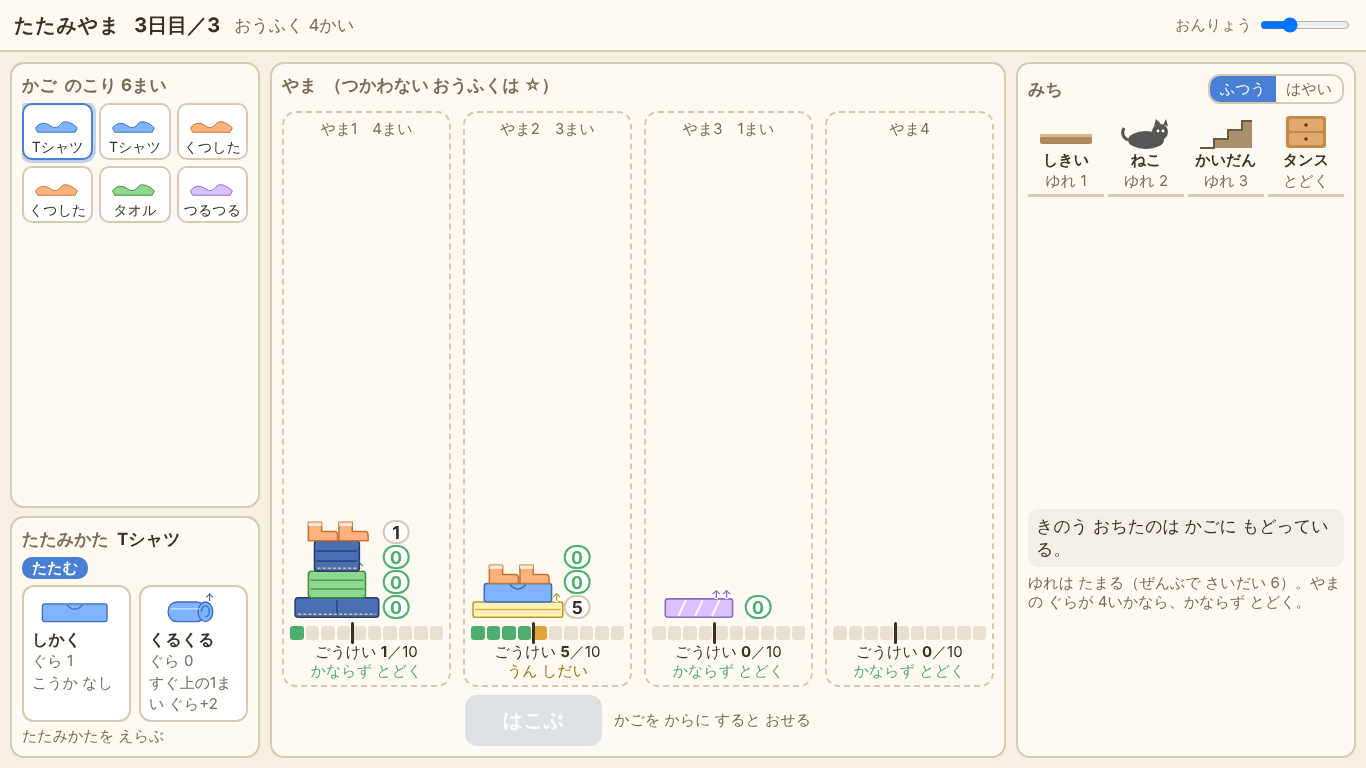
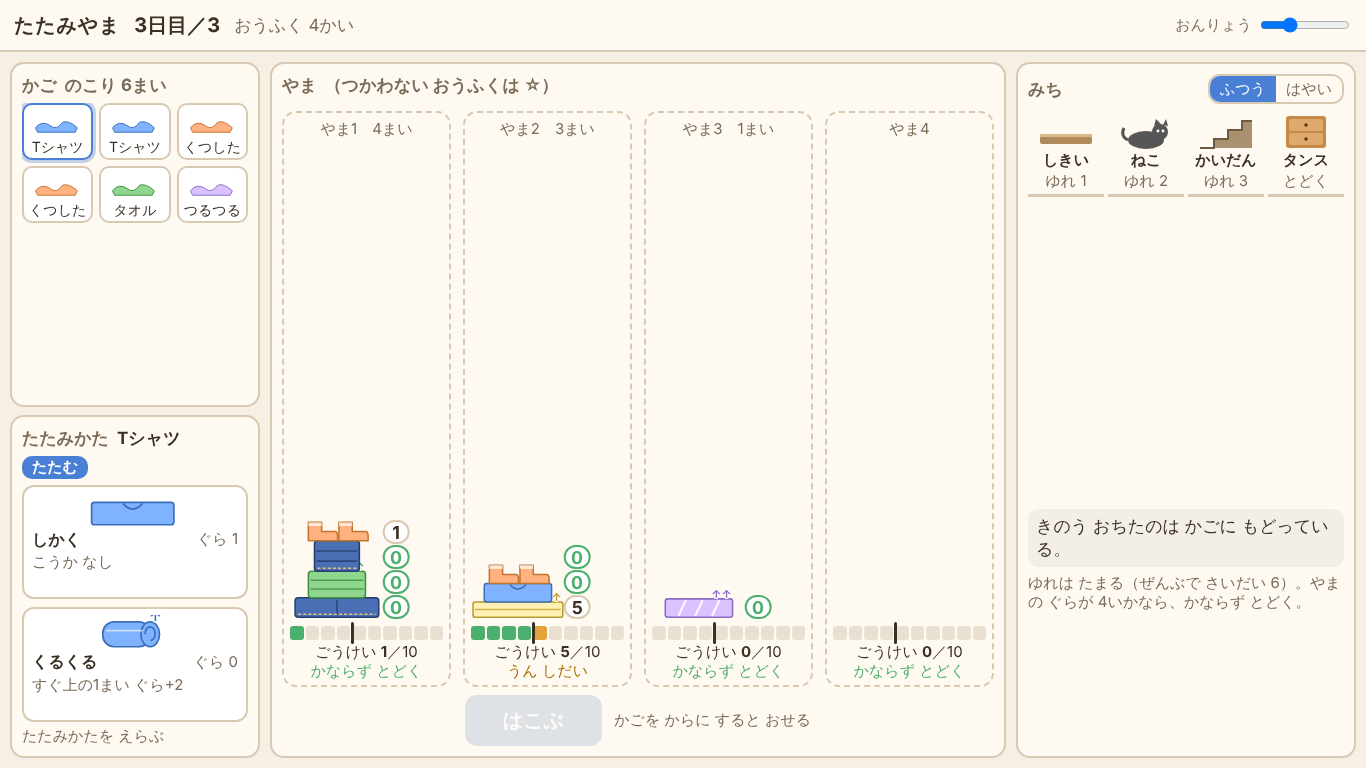
比べるための切り替え ?v=c（案C。既定は指示書のまま）、PC のたたみ方ボタンを1列に、かご未選択の案内。tests 43、README・REPORT 更新
Claude-Session: https://claude.ai/code/session_01MmzYoT4B9Fx3f1cD3sztui

Changed region(s): [[0.0, 0.625, 0.1845, 0.9375], [0.0, 0.5312, 0.123, 0.625]]

diff --git a/rules.js b/rules.js
@@ -52,6 +52,19 @@
   var FOLD_BY_ID = {}; FOLDS.forEach(function (f) { FOLD_BY_ID[f.id] = f; });
   function foldsOf(kind) { return FOLDS.filter(function (f) { return f.kind === kind; }); }
 
+  // 比べるための切り替え（既定は 指示書のまま。?v=c／bot.js --variant c で入る。一度入れたら 読み込み直すまで戻さない）
+  //   c：くるくる＝「すぐ上の1まい ぐら+2。いちばん上なら ぐら2」（REPORT.md 3. の案C）
+  var VARIANTS = {
+    c: { id: 'c', name: '案C', note: 'くるくるは いちばん上なら ぐら2', folds: { tshirt_roll: { text: 'すぐ上の1まい ぐら+2。いちばん上なら ぐら2', topBase: 2 } } }
+  };
+  var activeVariant = null;
+  function applyVariant(id) {
+    var v = VARIANTS[id]; if (!v || activeVariant) return false;
+    Object.keys(v.folds).forEach(function (fid) { var patch = v.folds[fid]; Object.keys(patch).forEach(function (k) { FOLD_BY_ID[fid][k] = patch[k]; }); });
+    activeVariant = id; return true;
+  }
+  function variant() { return activeVariant ? VARIANTS[activeVariant] : null; }
+
   // 3日の中身（かご）と 往復の回数
   var DAYS = [
     { day: 1, trips: 2, basket: { tshirt: 2, socks: 2, towel: 1, jeans: 1 } },
@@ -88,6 +101,7 @@
       var base = f.gura;
       var e = f.effect;
       var condHit = false;
+      if (f.topBase !== undefined && i === n - 1) { base = f.topBase; condHit = true; } // 切り替え c：いちばん上なら ぐら topBase（手順1）
       if (e && e.type === 'cond') {
         var isTop = (i === n - 1), isBottom = (i === 0);
         if ((e.where === 'top' && isTop) || (e.where === 'bottom' && isBottom)) { base = e.base; condHit = true; }
@@ -205,6 +219,7 @@
 
   return {
     CFG: CFG, KINDS: KINDS, KIND_BY_ID: KIND_BY_ID, FOLDS: FOLDS, FOLD_BY_ID: FOLD_BY_ID, foldsOf: foldsOf,
+    VARIANTS: VARIANTS, applyVariant: applyVariant, variant: variant,
     DAYS: DAYS, basketOf: basketOf, makeRng: makeRng,
     stackCalc: stackCalc, diffCalc: diffCalc, fallIndex: fallIndex, carry: carry, carryWith: carryWith, carryExpect: carryExpect,
     runDay: runDay, sameItems: sameItems

diff --git a/ui.js b/ui.js
@@ -7,6 +7,7 @@
   var Q = {}; location.search.replace(/^\?/, '').split('&').forEach(function (kv) { if (!kv) return; var p = kv.split('='); Q[decodeURIComponent(p[0])] = p.length > 1 ? decodeURIComponent(p[1]) : '1'; });
   var OPT = { auto: Q.auto === '1', bg: Q.bg === '1', speed: parseFloat(Q.speed || '1') || 1, mute: Q.mute === '1', seed: Q.seed ? parseInt(Q.seed, 10) : null, reset: Q.reset === '1', runs: parseInt(Q.runs || '1', 10) };
   if (OPT.auto) OPT.mute = true;
+  if (Q.v && T.applyVariant(Q.v)) OPT.variant = Q.v; // 比べるための切り替え（?v=c）
   if (OPT.reset) { try { localStorage.removeItem('tatami1.guide'); localStorage.removeItem('tatami1.vol'); } catch (e) { } }
 
   var KIND_COLOR = { tshirt: '#7fb3ff', socks: '#ffb27f', towel: '#8fd68f', jeans: '#4a6fb5', slick: '#d9c2ff', sheet: '#fff0b3' };
@@ -231,6 +232,7 @@
   function setScreen(sc) { G.screen = sc; document.body.className = 'sc-' + sc; }
   function guide(id, on) { var e = $(id); e.classList.toggle('hidden', !(on && !G.guideDone)); }
   function renderHead() {
+    var v = T.variant(); $('variantLbl').textContent = v ? v.name : ''; $('variantLbl').classList.toggle('hidden', !v); $('variantLbl').title = v ? v.note : '';
     $('dayLbl').textContent = (G.day + 1) + '日目／3';
     $('tripLbl').textContent = 'おうふく ' + tripsToday() + 'かい';
   }
@@ -368,6 +370,7 @@
     var st = G.stacks[i];
     if (layer && st.length && parseInt(layer.getAttribute('data-i'), 10) === st.length - 1) { unplaceTop(i); return; }
     if (it && !G.selFold) { $('foldHint').textContent = 'さきに たたみかたを えらぶ'; var fb = $('foldBox'); fb.style.boxShadow = '0 0 0 3px #4a7fd6'; setTimeout(function () { fb.style.boxShadow = ''; }, 600); }
+    else if (!it && G.basket.length) { $('foldHint').textContent = 'さきに かごの 1まいを えらぶ'; var bb = $('basketBox'); bb.style.boxShadow = '0 0 0 3px #4a7fd6'; setTimeout(function () { bb.style.boxShadow = ''; }, 600); }
   }
   function placeItem(it, foldId, slotIdx) {
     var st = G.stacks[slotIdx];

diff --git a/index.html b/index.html
@@ -54,9 +54,9 @@
   .bitem .fdg { position: absolute; left: 4px; top: 2px; font-size: 14px; font-weight: 700; color: var(--sub); }
   #foldBox { min-height: 150px; }
   #foldBox .who { color: var(--ink); }
-  #folds { display: grid; grid-template-columns: minmax(0, 1fr) minmax(0, 1fr); gap: 8px; }
-  #folds.one { grid-template-columns: minmax(0, 1fr); }
-  .fbtn { display: flex; flex-direction: column; align-items: stretch; gap: 2px; padding: 6px 8px; text-align: left; min-height: 104px; background: #fff; }
+  #folds { display: grid; grid-template-columns: minmax(0, 1fr); gap: 8px; } /* PC は 1列（効果の文を 2行までに おさめる） */
+  .fbtn { display: flex; flex-direction: column; align-items: stretch; gap: 2px; padding: 6px 8px; text-align: left; min-height: 0; background: #fff; }
+  .fbtn .ft { min-height: 0; }
   .fbtn svg { width: 100%; height: 34px; }
   .fbtn .fn { font-weight: 700; font-size: 16px; display: flex; flex-wrap: wrap; justify-content: space-between; align-items: center; gap: 0 6px; }
   .fbtn .fn > span { white-space: nowrap; }
@@ -204,6 +204,8 @@
     .bitem svg { height: 22px; }
     .bitem .nm { font-size: 14px; }
     #foldBox { min-height: 0; }
+    #folds { grid-template-columns: minmax(0, 1fr) minmax(0, 1fr); }
+    #folds.one { grid-template-columns: minmax(0, 1fr); }
     .fbtn { min-height: 0; padding: 4px 6px; }
     .fbtn svg { height: 22px; }
     .fbtn .fn { font-size: 15px; }
@@ -243,6 +245,7 @@
     <span class="title">たたみやま</span>
     <span class="dayLbl" id="dayLbl">1日目／3</span>
     <span class="tripLbl" id="tripLbl">おうふく 2かい</span>
+    <span class="tripLbl hidden" id="variantLbl"></span>
     <span class="sp"></span>
     <span id="volBox"><span>おんりょう</span><input id="vol" type="range" min="0" max="100" value="30" aria-label="おんりょう"></span>
   </div>

diff --git a/bot.js b/bot.js
@@ -7,6 +7,7 @@ function arg(name, def) { var i = process.argv.indexOf('--' + name); if (i < 0) 
 var RUNS = parseInt(arg('runs', '1000'), 10);
 var SEED = parseInt(arg('seed', '1'), 10);
 var QUICK = arg('quick', false) === true;
+var VARIANT = arg('variant', null); if (VARIANT && VARIANT !== true) { if (!T.applyVariant(VARIANT)) { console.error('知らない切り替え: ' + VARIANT); process.exit(1); } }
 
 var FOLDS_OF = {}; T.KINDS.forEach(function (k) { FOLDS_OF[k.id] = T.foldsOf(k.id).map(function (f) { return f.id; }); });
 var PLAIN = { tshirt: ['tshirt_square'], socks: ['socks_line'], towel: ['towel_quad'], jeans: ['jeans_half'], slick: ['slick_fold'], sheet: ['sheet_fold'] };
@@ -154,7 +155,7 @@ function f2(x) { return (Math.round(x * 100) / 100).toFixed(2); }
 
 (function main() {
   var t0 = Date.now();
-  console.log('# ボットの結果（runs ' + RUNS + '、seed ' + SEED + (QUICK ? '、quick' : '') + '）\n');
+  console.log('# ボットの結果（runs ' + RUNS + '、seed ' + SEED + (QUICK ? '、quick' : '') + (T.variant() ? '、切り替え ' + T.variant().name + '：' + T.variant().note : '') + '）\n');
   console.log('前提：指示書 3. の数字のまま（かかえる力 10、高さ 5まいめから、ゆれ 1/2/3、ゆれなし 30%、往復 2/2/4）。でたらめ・ふつう・コツ2つは 往復を全部使い、均等に配り、順番はランダム。\n');
   var rows = [
     runBot('でたらめ（たたみ方もランダム）', planRandom(FOLDS_OF), RUNS, [0, 10]),

diff --git a/tests.js b/tests.js
@@ -86,5 +86,13 @@ eq('合計4以下なら かならず届く（ゆれ6 でも）', carried(['sheet
   eq('同じ seed なら 同じ結果', a.delivered.length, b.delivered.length);
   eq('かごの中身と 山の中身が合う', T.sameItems(T.basketOf(0), [S9]), true);
 })();
+// 比べるための切り替え c（既定では入っていない。入れたら くるくる は いちばん上なら ぐら2）
+eq('切り替え前：くるくる 1まいだけ = 0', guras(['tshirt_roll']).g, [0]);
+eq('切り替え c を入れられる', T.applyVariant('c'), true);
+eq('切り替え c：くるくる 1まいだけ = 2（いちばん上）', guras(['tshirt_roll']).g, [2]);
+eq('切り替え c：しかく > くるくる = 1, 2', guras(['tshirt_square', 'tshirt_roll']).g, [1, 2]);
+eq('切り替え c：くるくる > しかく = 0, 3（上でなければ 0。すぐ上 +2 はそのまま）', guras(['tshirt_roll', 'tshirt_square']).g, [0, 3]);
+eq('切り替え c：文も変わる', T.FOLD_BY_ID.tshirt_roll.text, 'すぐ上の1まい ぐら+2。いちばん上なら ぐら2');
+eq('切り替えは 二度 入れられない', T.applyVariant('c'), false);
 console.log('\n' + (count - fails) + ' / ' + count + ' ok' + (fails ? '（NG ' + fails + '）' : ''));
 process.exit(fails ? 1 : 0);

diff --git a/REPORT.md b/REPORT.md
@@ -110,7 +110,7 @@ gh api -X POST repos/usouso/tatamiyama/pages -f "source[branch]=main" -f "source
 
 （ものさしは 10×落ちる枚数の期待＋山のぐらの合計。小さいほど良い。案C の しかく固定も 4場面すべてで 自由より悪い）
 
-5. 案C は効果の文を変えるので、ぼくくんが決めること（質問1）。ゲーム本体の rules.js は 指示書のままにしてある。
+5. 案C は効果の文を変えるので、ぼくくんが決めること（質問1）。**既定は指示書のまま**。比べられるように、`?v=c` を付けると 案C で遊べるようにした（たたみ方のボタンの文も変わり、見出しに「案C」が出る。bot.js は `--variant c`、tests.js にも 案C の確かめを7つ入れた。43 / 43 ok）。決まったら、切り替えは消して 決めた方に固定する。案Cの文は 22字で、PC では2行（たたみ方のボタンを1列にした）、スマホでは3行になる（既定の文は どちらも2行まで）。
 
 ## 4. 画面の確かめ（ヘッドレス Chrome / Playwright）
 
@@ -174,7 +174,7 @@ node tools/check.js --runs 3（?auto=1&bg=1&speed=10&mute=1。大きさごとに
 
 1. Tシャツ「しかく」が にせの選択になっている件（3.の形の問題）。どうしますか？
    - (a) 版1はこのまま遊んで、感想を聞いてから決める（遊ぶ人は最良を探さないので、迷いは出るかもしれない）
-   - (b) 案C：くるくるを「すぐ上の1まい ぐら+2。いちばん上なら ぐら2」に変える（おすすめ。ボットの目標は全部そのまま届き、にせの選択も消える。版1.1 として すぐ出せる）
+   - (b) 案C：くるくるを「すぐ上の1まい ぐら+2。いちばん上なら ぐら2」に変える（おすすめ。ボットの目標は全部そのまま届き、にせの選択も消える。今の版でも `?v=c` を付ければ遊べる）
    - (c) 別の案（文を書いてください）
 2. 公開の場所。(a) Windows 側で usouso/tatamiyama を作って GitHub Pages にする（0.の手順）／(b) クラウドで続けるために、先に空の usouso/tatamiyama を作って このセッションに渡す／(c) 当面 claude.ai のアーティファクトで遊ぶ
 3. タイトル画面の1行「ぐら＝ぐらつき。やまの ぐら ＋ みちの ゆれ が 10を こえると おちる。」は、入れてあります。(a) このまま／(b) 消す（遊んで覚える）

diff --git a/README.md b/README.md
@@ -14,4 +14,5 @@
 - REPORT.md … この版の報告
 
 動かす：`node tests.js`／`node bot.js [--runs 1000]`／`node serve.js` → http://localhost:8787/
+比べるための切り替え：`?v=c`（REPORT 3. の案C：くるくる＝「すぐ上の1まい ぐら+2。いちばん上なら ぐら2」。画面の文も変わり、見出しに「案C」が出る。ボットは `node bot.js --variant c`）。既定は指示書のまま。
 確認用の切り替え：`?auto=1`（自動で3日遊ぶ。必ず無音）`&bg=1`（タイマーで進める。この版は演出も全部 setTimeout で進むので、付けても付けなくても同じ）`&speed=10&mute=1&seed=N&reset=1&runs=3`
